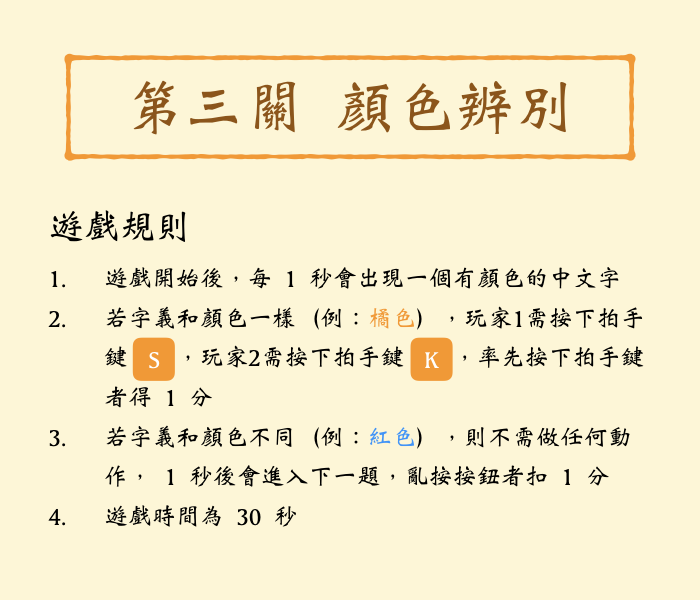
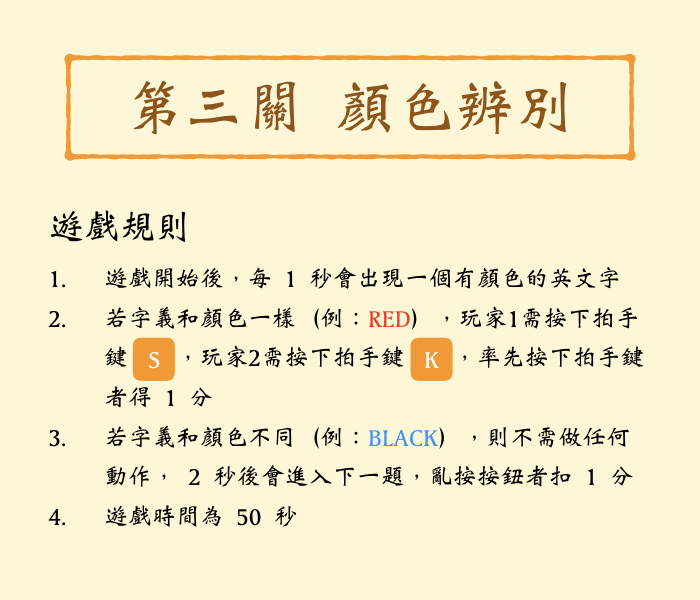
第二關 第三關 遊戲規則修正

diff --git a/08Main.py b/08Main.py
@@ -1,5 +1,5 @@
 ##needs:
-#1 改第二關規則(答對加3分)(90秒)、第三關規則(50秒)
+
 #2 三個遊戲畫面的背景都要改成有空心(後面放頭像)
 #3 封面
 #4 第一關的計分問題
